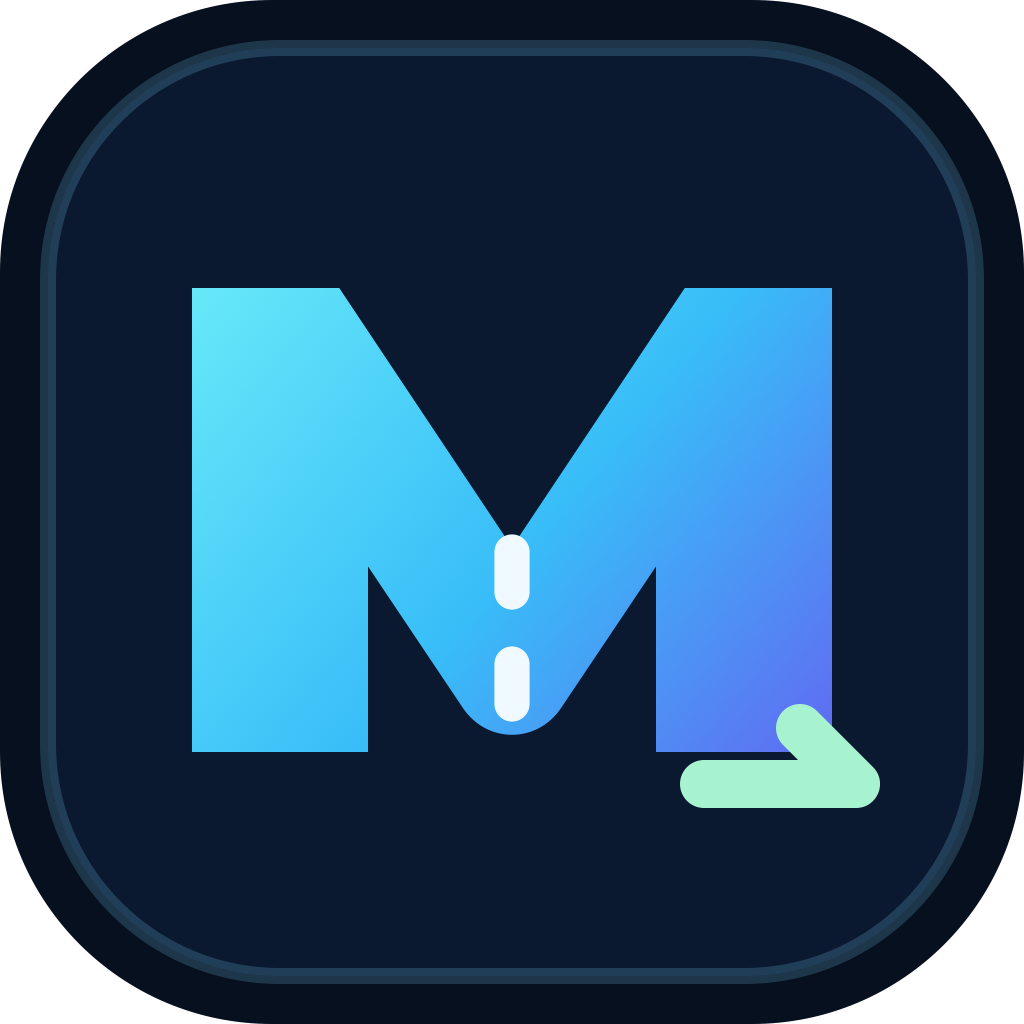
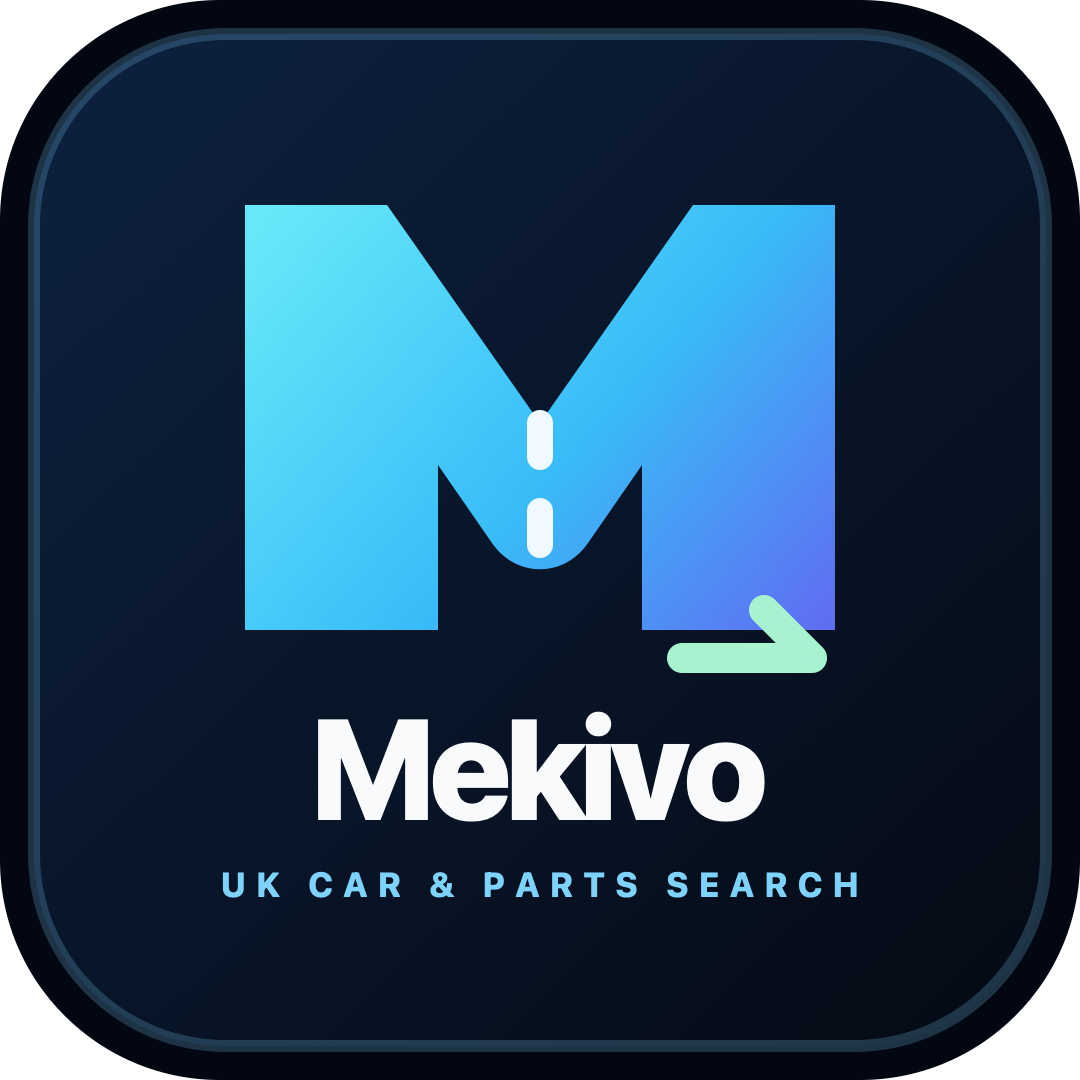
make Mekivo branding self-explanatory

diff --git a/app/page.tsx b/app/page.tsx
@@ -577,7 +577,7 @@ export default function Home() {
             <span>
               <strong className="block text-xl tracking-tight">Mekivo</strong>
               <span className="text-xs text-slate-400">
-                Search smarter. Buy with confidence.
+                UK car &amp; parts search
               </span>
             </span>
           </button>
